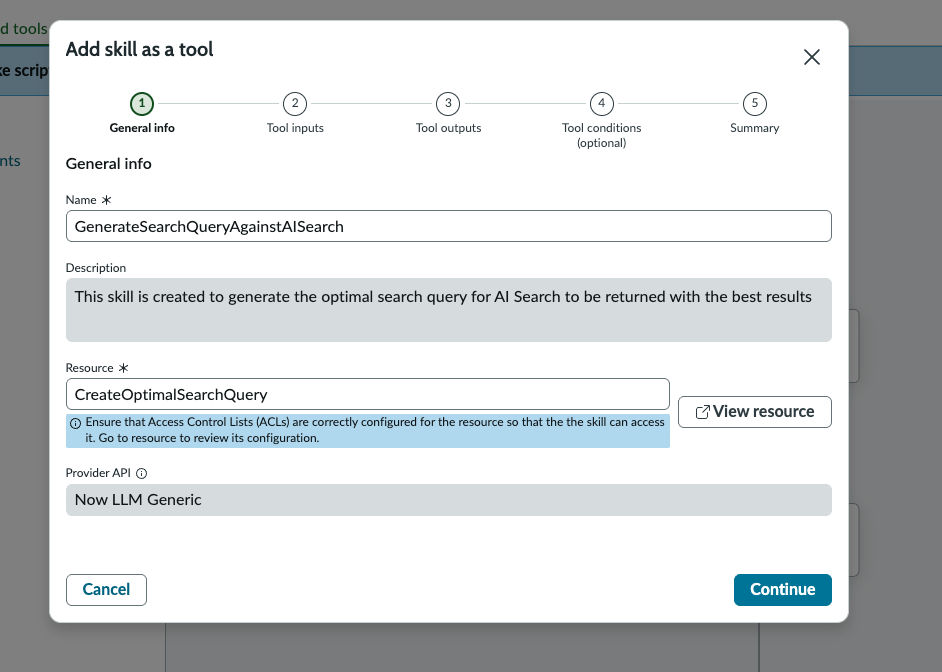
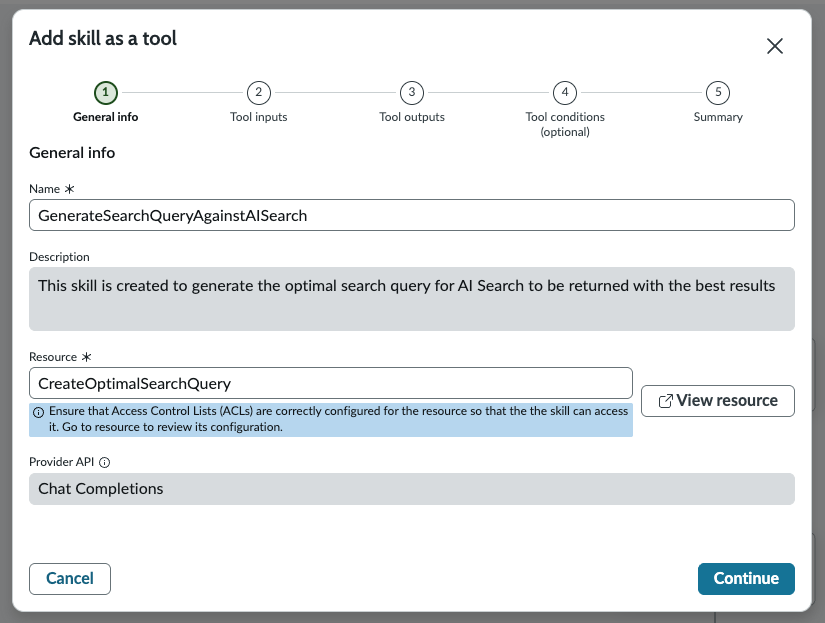
update-changes-04b-nask

diff --git a/docs/04b-now-assist-skill-kit-part2-resolutionfinderinternaldataskill.md b/docs/04b-now-assist-skill-kit-part2-resolutionfinderinternaldataskill.md
@@ -6,7 +6,7 @@
 
 ## What It Is
 
-`ResolutionFinderUsingInternalData` is the **orchestrating skill** for Path A of the Fulfiller Flow. It combines three tools — two running in parallel and one sequentially — then feeds all their outputs into a single LLM reasoning step that determines whether a viable resolution exists.
+`ResolutionFinderUsingInternalData` is the **orchestrating skill** for the Fulfiller Flow. It combines three tools — two running in parallel and one sequentially — then feeds all their outputs into a single LLM reasoning step that determines whether a viable resolution exists.
 
 This skill covers **all three steps of Path A**:
 
@@ -83,7 +83,7 @@ Navigate to **All → Now Assist Skill Kit → Home → Create skill**.
 | Field                | Value                                                                                                                                                                                                                                                                                                                                                                                                                                   |
 | -------------------- | --------------------------------------------------------------------------------------------------------------------------------------------------------------------------------------------------------------------------------------------------------------------------------------------------------------------------------------------------------------------------------------------------------------------------------------- |
 | Skill name           | `ResolutionFinderUsingInternalData`                                                                                                                                                                                                                                                                                                                                                                                                     |
-| Description          | `This skill is meant to find possible resolution(s) for an Incident case (x_snc_apacaienable_incident_extend) [Ignore the discrepancy with the screenshot - intent is to input the name of your Incident Extend table] by going through information internal to the ServiceNow instance. Specifically, it goes through Knowledge Bases (configured through Search Profiles) and recommendations generated from Predictive Intelligence` |
+| Description          | `This skill is meant to find possible resolution(s) for an Incident case (x_snc_apacaienable_incident_extend) by going through information internal to the ServiceNow instance. Specifically, it goes through Knowledge Bases (configured through Search Profiles) and recommendations generated from Predictive Intelligence` |
 | Default provider     | `Azure OpenAI`                                                                                                                                                                                                                                                                                                                                                                                                                          |
 | Default provider API | `Chat Completions`                                                                                                                                                                                                                                                                                                                                                                                                                      |
 
@@ -211,9 +211,9 @@ Select **Skill**, check **Add as parallel node** → **Configure tool**.
 | Name         | `GenerateSearchQueryAgainstAISearch`                                                                            |
 | Description  | `This skill is created to generate the optimal search query for AI Search to be returned with the best results` |
 | Resource     | `CreateOptimalSearchQuery`                                                                                      |
-| Provider API | `Now LLM Generic`                                                                                               |
+| Provider API | `Azure OpenAI`                                                                                                  |
 
-![NASK — Skill Tool: General Info](<../.gitbook/assets/NASKResolutionFinderUsingInternalData2-14 (1).png>)
+![NASK — Skill Tool: General Info](<../screenshots/NASKResolutionFinderUsingInternalData2-14.png>)
 
 #### Step 5b — Tool Inputs
 
@@ -500,13 +500,13 @@ Navigate to the **Edit prompt** tab → finalize the `Assess if solution exists 
 
 The **Publish Skill** dialog opens:
 
-| Field           | Value                                                           |
-| --------------- | --------------------------------------------------------------- |
-| Workflow        | Other                                                           |
-| Product         | Not Applicable                                                  |
-| Feature         | Not Applicable                                                  |
-| Display Options | None                                                            |
-| Provider        | Now LLM Service (Now LLM Generic) — Default provider            |
+| Field           | Value                                                            |
+| --------------- | ---------------------------------------------------------------- |
+| Workflow        | Other                                                            |
+| Product         | Not Applicable                                                   |
+| Feature         | Not Applicable                                                   |
+| Display Options | None                                                             |
+| Provider        | Azure OpenAI                                                     |
 | Prompt          | `Assess if solution exists within Internal Knowledge sources` ✅ |
 
 ![NASK — Publish Skill Dialog](<../.gitbook/assets/NASKResolutionFinderUsingInternalData2-31 (1).png>)
@@ -521,7 +521,7 @@ Click **Publish**.
 
 Navigate to **All → Admin Center → Now Assist Admin → Now Assist Skills → Other → Available**.
 
-Locate `ResolutionFinderUsingInternalData` (Custom | Inactive | Now LLM Service) → click **Turn on** → confirm activation.
+Locate `ResolutionFinderUsingInternalData` → click **Turn on** → confirm activation.
 
 ![Now Assist Admin — Skills: ResolutionFinderUsingInternalData](<../.gitbook/assets/NASKResolutionFinderUsingInternalData2-32 (1).png>)
 
